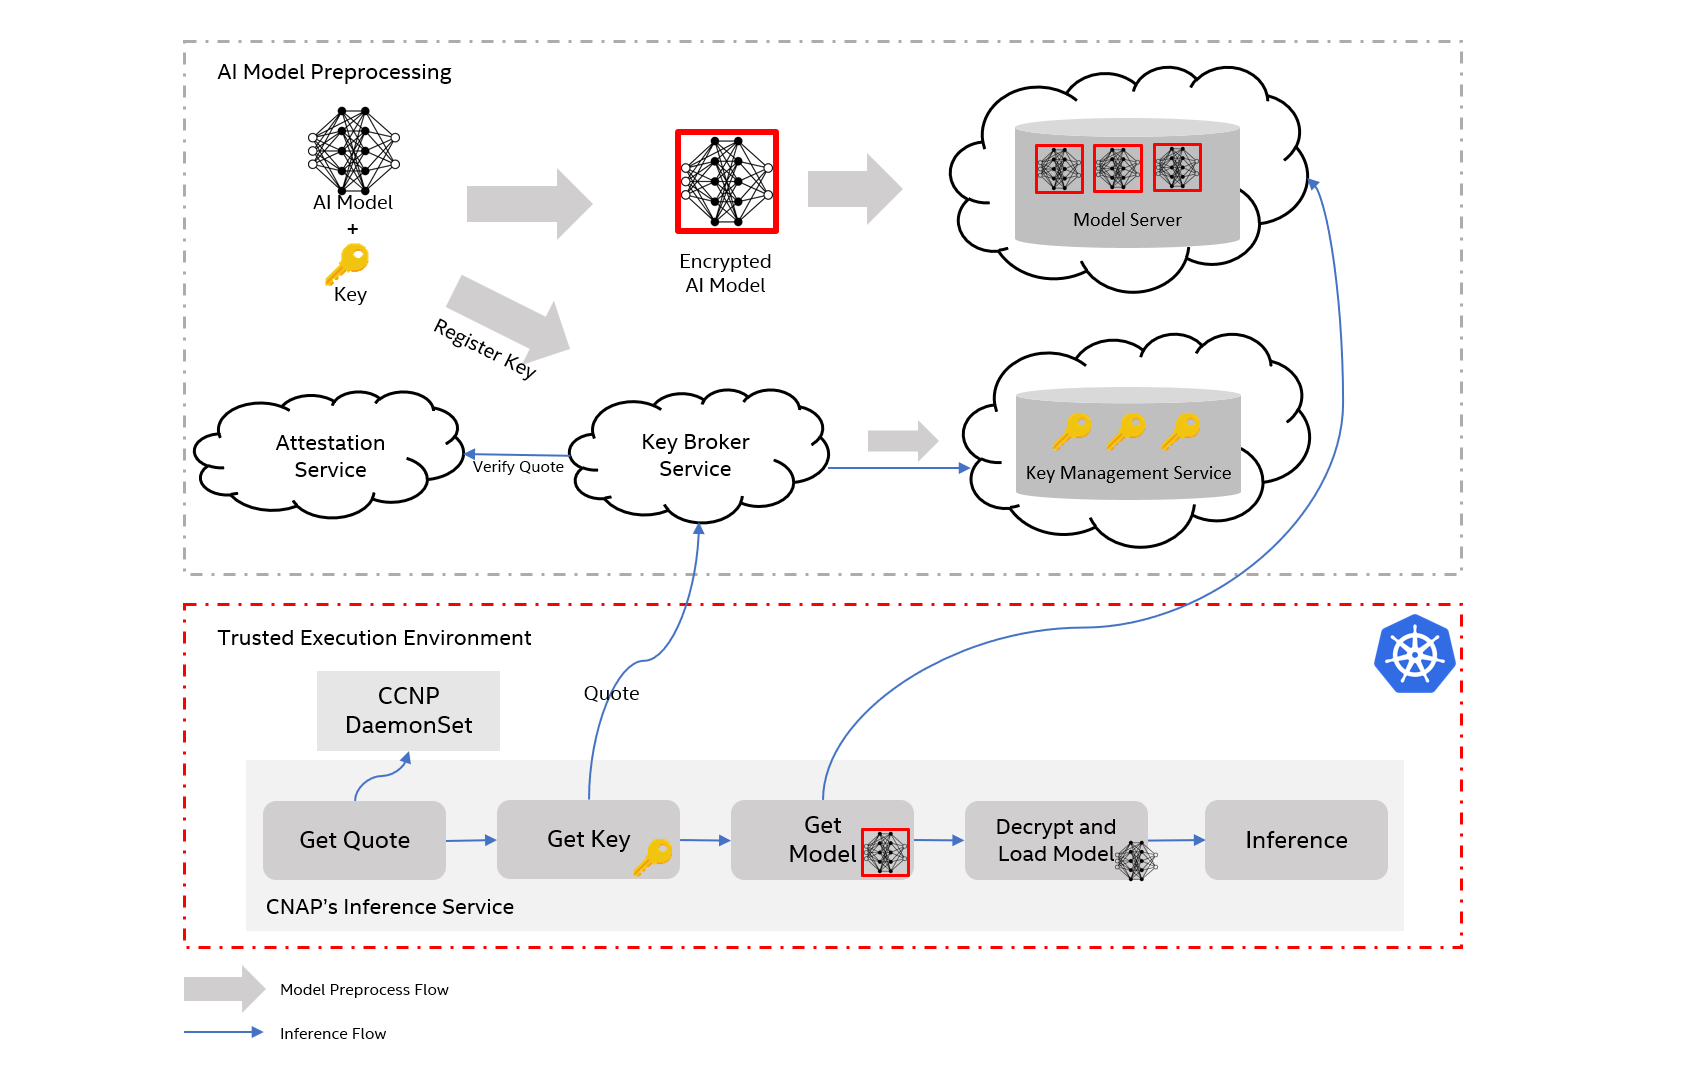
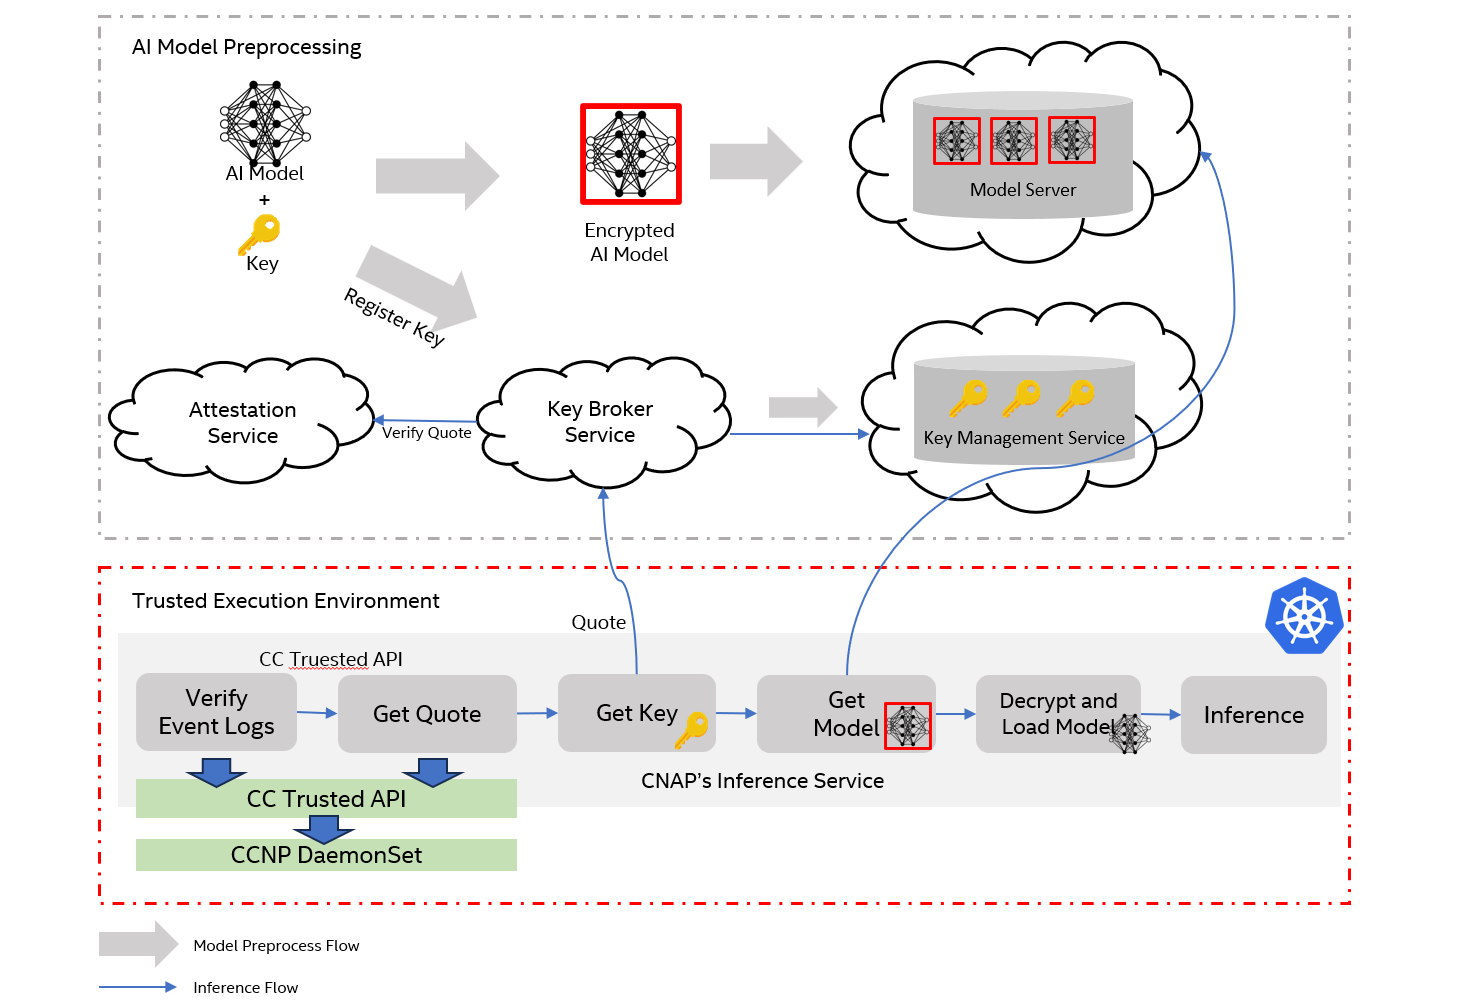
docs: add verfiy RTMR with replayed event log related content (#186)

diff --git a/cnap/core/eventlog.py b/cnap/core/eventlog.py
@@ -4,7 +4,7 @@ This module provides functions related to event log processing. The event log ca
 Confidential Cloud-Native Primitives (CCNP), and is defined according to several tcg supported event
 log formats defined in TCG_PCClient Spec, Canonical Eventlog Spec, etc.
 
-CCNP: https://github.com/intel/confidential-cloud-native-primitives
+CCNP: https://github.com/cc-api/confidential-cloud-native-primitives
 TCG_PCClient Spec:
   https://trustedcomputinggroup.org/wp-content/uploads/TCG_PCClientSpecPlat_TPM_2p0_1p04_pub.pdf
 Canonical Eventlog Spec:

diff --git a/docs/How_to_Protect_AI_Models_in_Cloud_Native_Environments.md b/docs/How_to_Protect_AI_Models_in_Cloud_Native_Environments.md
@@ -10,8 +10,9 @@ To ensure the cloud native environments and AI models are secure protected in us
 
 ## 1. Architecture Design
 
-This design can be divided into three steps logically.
+This design can be divided into four steps logically.
 - A plain AI model is preprocessed before uploading or use in cloud native environment. AI model should be encrypted offline, and the encryption key will be stored in a key database server.
+- Fetch and verify event logs. Event logs are the record of measurements made to PCRs (PCR: Platform Configuration Register) by the Platform Firmware, with some informational events not extended to PCRs. The informational events are used to convey valuable information to an evaluator of the log. Each measurement made, as well as the information events, are recorded in the event logs as individual entries with specified fields. Event logs can assist the attestation/verification process. For more detail, please refer to [TCG_PCClient Spec](https://trustedcomputinggroup.org/wp-content/uploads/TCG_PCClientSpecPlat_TPM_2p0_1p04_pub.pdf).
 - Attestation of the cloud native environment.  Attestation is a confidential computing keystone. With attestation, AI models owner can fully assert the trustworthiness of the hardware and software environment AI is running in, regardless of the security posture of the underlying infrastructure provider.
 - AI Model fetching and decryption. Before CNAP can start its AI pipeline streaming inference, a proper AI model has to be downloaded then decrypted.
 
@@ -26,15 +27,34 @@ To protect the model and its encryption key, the following preprocessing steps a
 - Upload the encrypted model to Model Server.
 - Register key to Key Broker Service (KBS), and KBS will communicate with Key Management Service (KMS) to store the key in its database.
 
-### 1.2 Attestation by using Confidential Cloud-Native Primitives (CCNP)
+### 1.2 Fetch and Verify Event Logs by using Confidential Cloud-Native Primitives (CCNP)
 
-[CCNP](https://github.com/intel/confidential-cloud-native-primitives) is to enable Intel Trust Domain Extensions (TDX) or other TEE technologies and simplify the usage of TEE in cloud native environment. It comprises two main components: the services and the SDK, which includes event log, measurement, quote generation and other APIs.
+[CCNP](https://github.com/cc-api/confidential-cloud-native-primitives) is to enable Intel Trust Domain Extensions (TDX) or other TEE technologies and simplify the usage of TEE in cloud native environment. It comprises two main components: the services and the SDK, which includes event logs, measurement, quote generation and other APIs.
 
 - Service is designed to hide the complexity of different TEE platforms and provides common interfaces and scalability for cloud native environment.
 
 - SDK is to simplify the use of the service interface for development, it communicates to the service and parses the return results from the services.
 
-The service supports attestation, measurement fetching and event log collecting of various platforms including Intel TDX, Trusted Platform Modules (TPM) and AMD Secure Encrypted Virtualization-Secure Nested Paging (SEV-SNP) (will be supported soon).
+The service supports attestation, measurement fetching and event logs collecting of various platforms including Intel TDX, Trusted Platform Modules (TPM) and AMD Secure Encrypted Virtualization-Secure Nested Paging (SEV-SNP) (will be supported soon).
+
+CCNP is a good choice to fetch these evidences including measurements and event logs, which hides the complexity of the underlying platforms and increase the usability of the APIs. Here's the sample code using CCNP:
+
+```Python
+from ccnp import Eventlog
+event_logs = Eventlog.get_platform_eventlog()
+```
+
+To verify that the event logs have not been tampered with, we can compare the measurement replayed from event logs with the IMR (Integrated Measurement Register) values fetched using CCNP.
+Here's the sample code using CCNP to fetch IMR values (use Intel TDX RTMR as example):
+
+```Python
+from ccnp import Measurement, MeasurementType
+imr_measurement = Measurement.get_platform_measurement(MeasurementType.TYPE_TDX_RTMR, None, 1)
+```
+
+CCNP API detail documentation can be found [here](https://intel.github.io/confidential-cloud-native-primitives/).
+
+### 1.3 Attestation by using Confidential Cloud-Native Primitives (CCNP)
 
 To get the key to decrypt the model, we need provide the quote of TEE for attestation, CCNP is a good choice to get the quote and it hides the complexity and is easy to use, sample code from CCNP:
 
@@ -43,13 +63,12 @@ from ccnp import Quote
 quote=Quote.get_quote()
 ```
 
-CCNP API detail documentation can be found [here](https://intel.github.io/confidential-cloud-native-primitives/).
-
-### 1.3 AI Model Decryption
+### 1.4 AI Model Decryption
 
 CNAP project’s Inference Service flow of getting AI model should be updated to support TEE environment since the AI model has been encrypted:
 
 - Deploy CCNP as a [DaemonSet](https://intel.github.io/confidential-cloud-native-primitives/_rst/service.quote.html#deploy-as-daemonset-in-kubernetes), it will detect the TEE environment.
+- Fetch and verify event logs.
 - Get the quote and request the key from KBS.
 - Download the encrypted AI model from Model Server.
 - Decrypt AI model and load the model in memory to start AI streaming inference.
@@ -60,7 +79,7 @@ Current Cloud-Native AI Pipeline (CNAP) project already implements the new desig
 
 To protect AI model, the first thing is to generate a key for model encryption, encrypt the model and register the key to KBS. Then KBS will submit further request to store the key to KMS.
 
-To fetch and decrypt the model, the runtime environment should be verified by attestation. A key broker client should get a quote and send the quote to KBS to verify that it is running on an authentic TEE platform. Upon successful attestation, KBS will then respond with a wrapped key for AI model's decryption later.
+To fetch and decrypt the model, the runtime environment should be verified by event logs and attestation. A key broker client should get a quote and send the quote to KBS to verify that it is running on an authentic TEE platform. Upon successful attestation, KBS will then respond with a wrapped key for AI model's decryption later.
 
 ### 2.1 AI Model Encryption
 
@@ -159,6 +178,7 @@ An sample working flow of a simple KBS implementation:
 
 For a key broker client, here is an example working flow of key broker client to get a key from KBS:
 
+- Get and replay all event logs, and verify by the measurement register.
 - Generate 2048 bit RSA key pair (a public key and a private key).
 - Encode the public key to base64 for transferring (user_data).
 - Get quote in the TEE with the hash of the public key for measurement (quote).
@@ -192,7 +212,45 @@ req_body = {
 }
 ```
 
-### 2.5 Attestation
+### 2.5 Fetch and Verify Event Logs
+
+CCNP provides an easy way to fetch and verify event logs in TEE. After fetching event logs, we can compare the measurement replayed from event logs with the IMR (Integrated Measurement Register) values fetched using CCNP to verify that event logs have not been tampered with.
+
+We can fetch, replay and verify event logs before attestation, the sample code:
+
+```Python
+import logging
+
+from ccnp import Eventlog, Measurement, MeasurementType
+
+LOG = logging.getLogger(__name__)
+IMR_VERIFY_COUNT = 3
+
+# Fetch event logs using CCNP and replay.
+event_logs = Eventlog.get_platform_eventlog()
+measurement_dict = replay(event_logs)
+
+# Fetch IMR measurement (use Intel TDX RTMR as example) and verify with replayed value.
+for index in range(IMR_VERIFY_COUNT):
+    # Fectch IMR measurement
+    imr_measurement = base64.b64decode(Measurement.get_platform_measurement(
+        MeasurementType.TYPE_TDX_RTMR, None, index))
+
+    # Get IMR value from replayed event logs
+    for value in measurement_dict[index].values():
+        imr_replayed = value
+        break
+
+    if imr_measurement == imr_replayed:
+        LOG.info("IMR[%d] passed the verification.", index)
+    else:
+        LOG.error("IMR[%d] did not pass the verification.", index)
+        raise RuntimeError("Event logs verify failed.")
+
+LOG.info("Event logs verify successfully.")
+```
+
+### 2.6 Attestation
 
 CCNP provides an easy way to get the quote for attestation in TEE. Before getting the quote, a RSA key pair need to be generated for wrapping purpose and the public key will be measured as the user data input to the quote fetching process.
 
@@ -214,7 +272,7 @@ user_data = base64.b64encode(pubkey_der).decode('utf-8')
 quote = Quote.get_quote(user_data=user_data)
 ```
 
-### 2.6 AI Model Decryption
+### 2.7 AI Model Decryption
 
 Just like the encryption, the AES-256-GCM encrypted data format should be:
 
@@ -251,11 +309,12 @@ def decrypt_data(encrypted_data, key) -> bytes:
 ## Conclusion
 
 As organizations move more of their AI workloads to the cloud, AI models security, and protection has become more important. Confidential computing provides a set of technologies designed to protect data in use, such as AI models currently being processed by the machine, or currently in memory. 
-This document describes a common architecture to “design and run” a native AI Model into confidential computing environments. (1) AI Model preprocess (2) Attestation of the cloud native environment (3) AI Model fetching and decryption.
-Intel’s TDX technology can provide a TEE running environment, and CCNP can simply the attestation of confidential native environment, last but not least, a sample KBS is introduced to help customer to connect with its own or vendor-independent attestation service (for example, Intel Trust Authority).
+This document describes a common architecture to “design and run” a native AI Model into confidential computing environments. (1) AI Model preprocess (2) Fetch and verify event logs (3) Attestation of the cloud native environment (4) AI Model fetching and decryption.
+Intel’s TDX technology can provide a TEE running environment, and CCNP can simplify the event logs, measurement fetching and attestation of confidential native environment, last but not least, a sample KBS is introduced to help customer to connect with its own or vendor-independent attestation service (for example, Intel Trust Authority).
 
 # References
 
 1. Model Provider: https://github.com/intel/cloud-native-ai-pipeline/blob/main/cnap/core/modelprovider.py
 2. Key Broker Client: https://github.com/intel/cloud-native-ai-pipeline/blob/main/cnap/core/keybroker.py
-3. CCNP: https://github.com/intel/confidential-cloud-native-primitives
+3. CCNP: https://github.com/cc-api/confidential-cloud-native-primitives
+4. TCG_PCClient Spec: https://trustedcomputinggroup.org/wp-content/uploads/TCG_PCClientSpecPlat_TPM_2p0_1p04_pub.pdf
